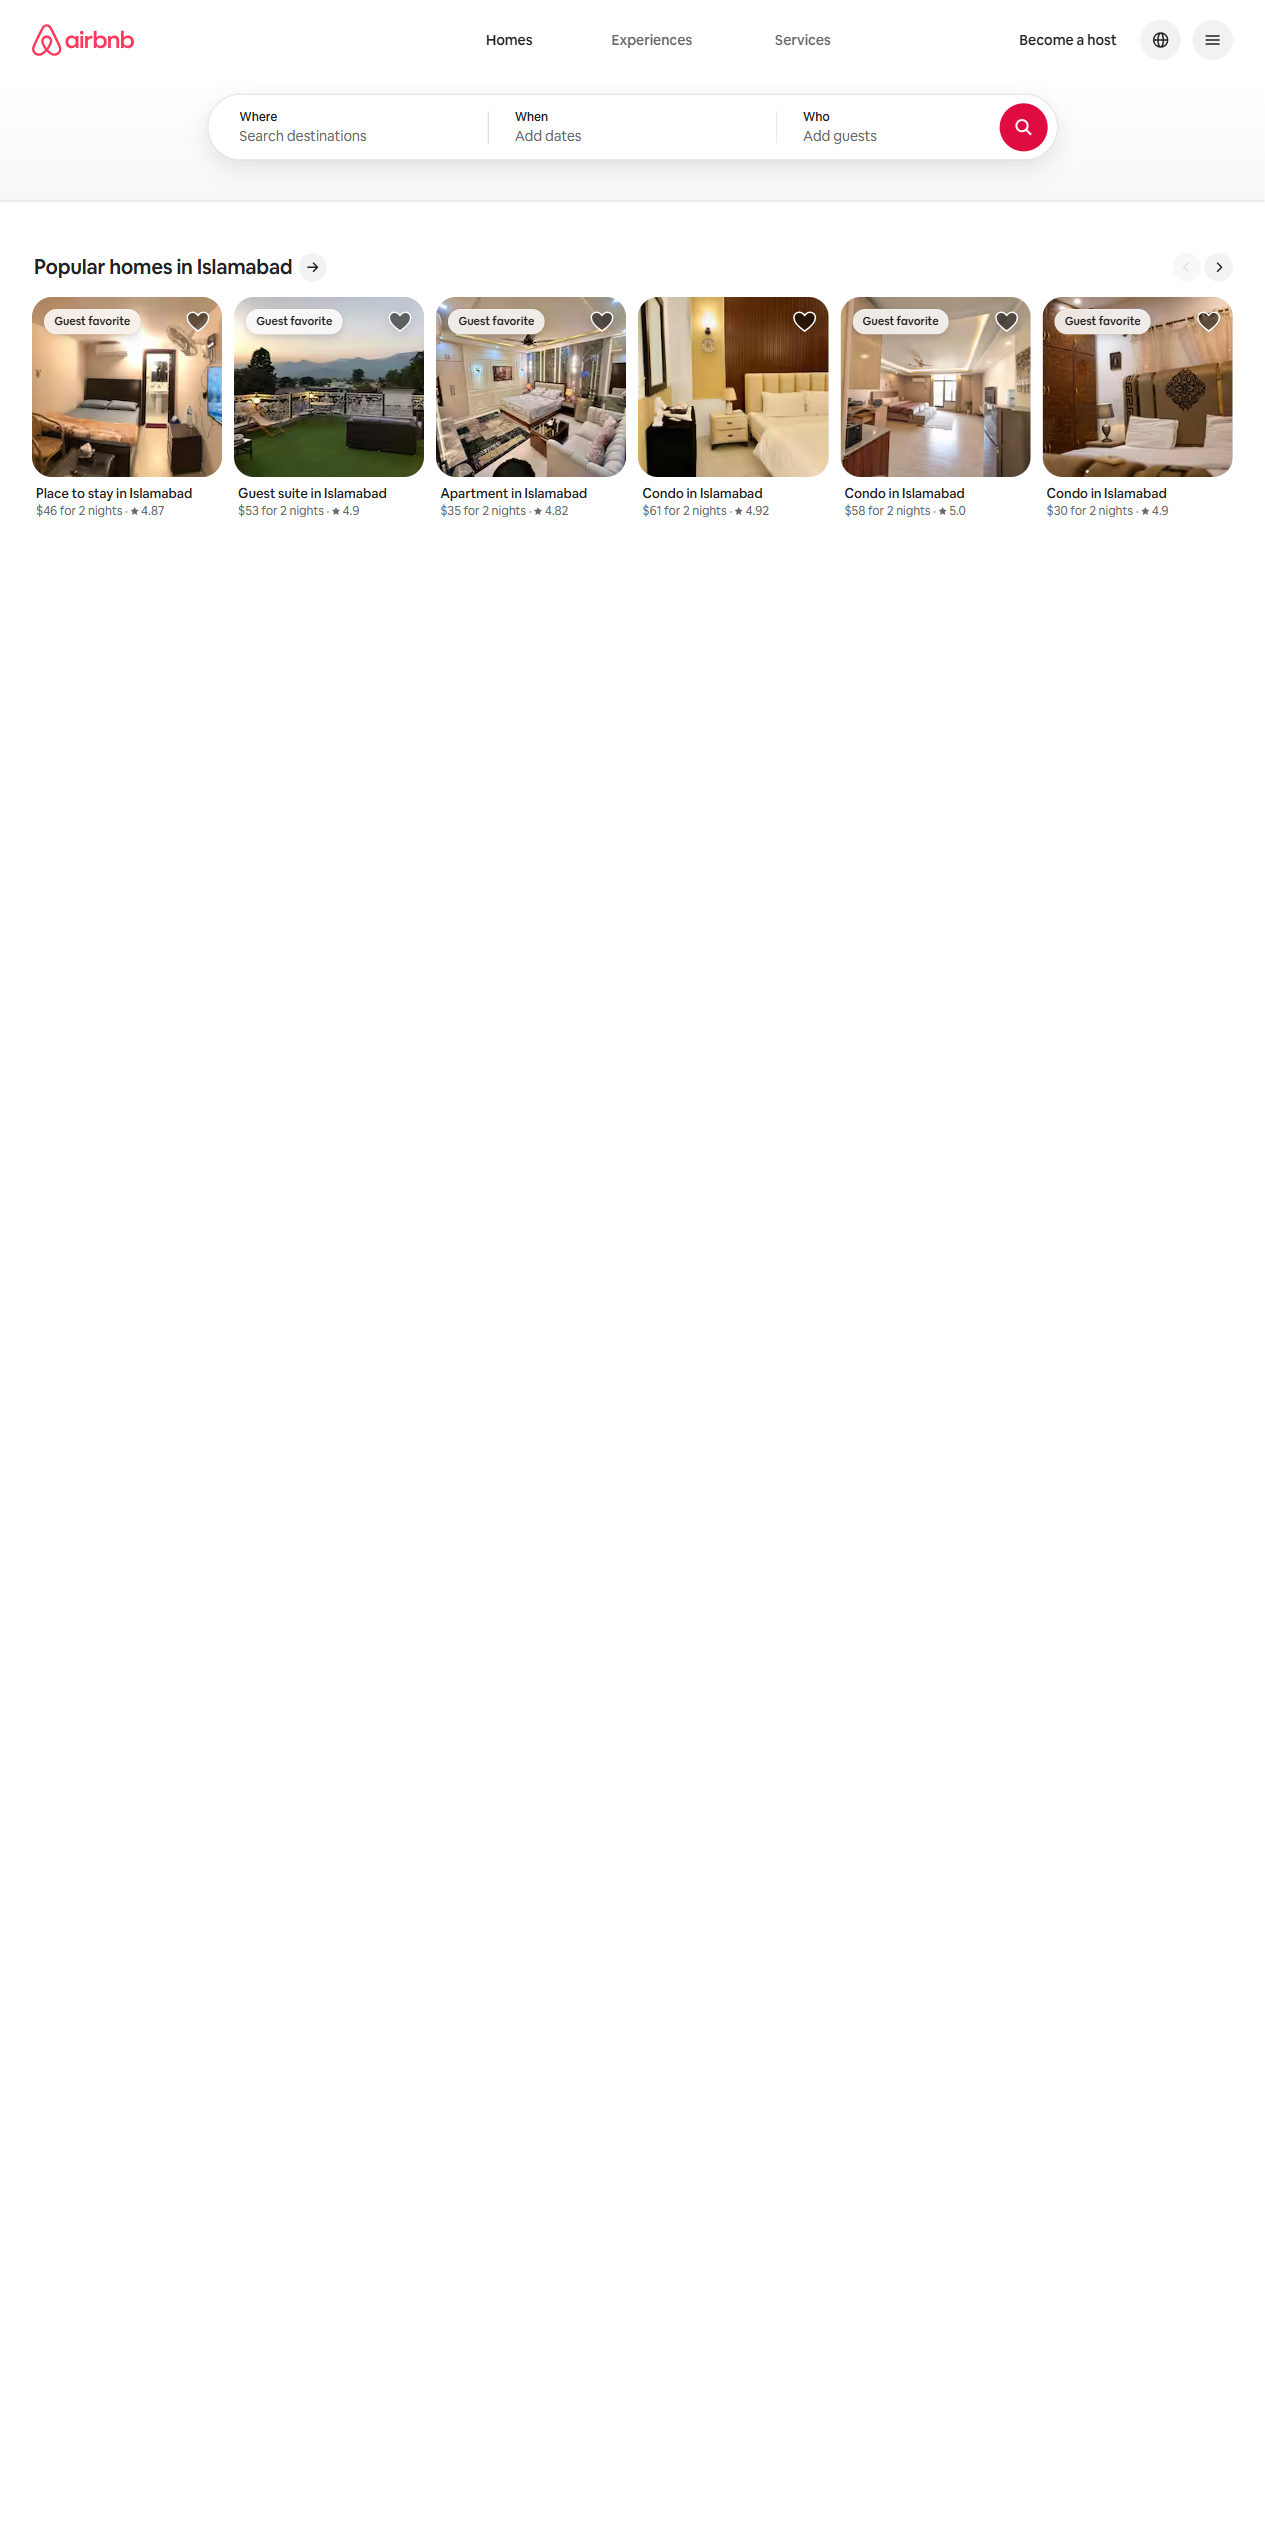
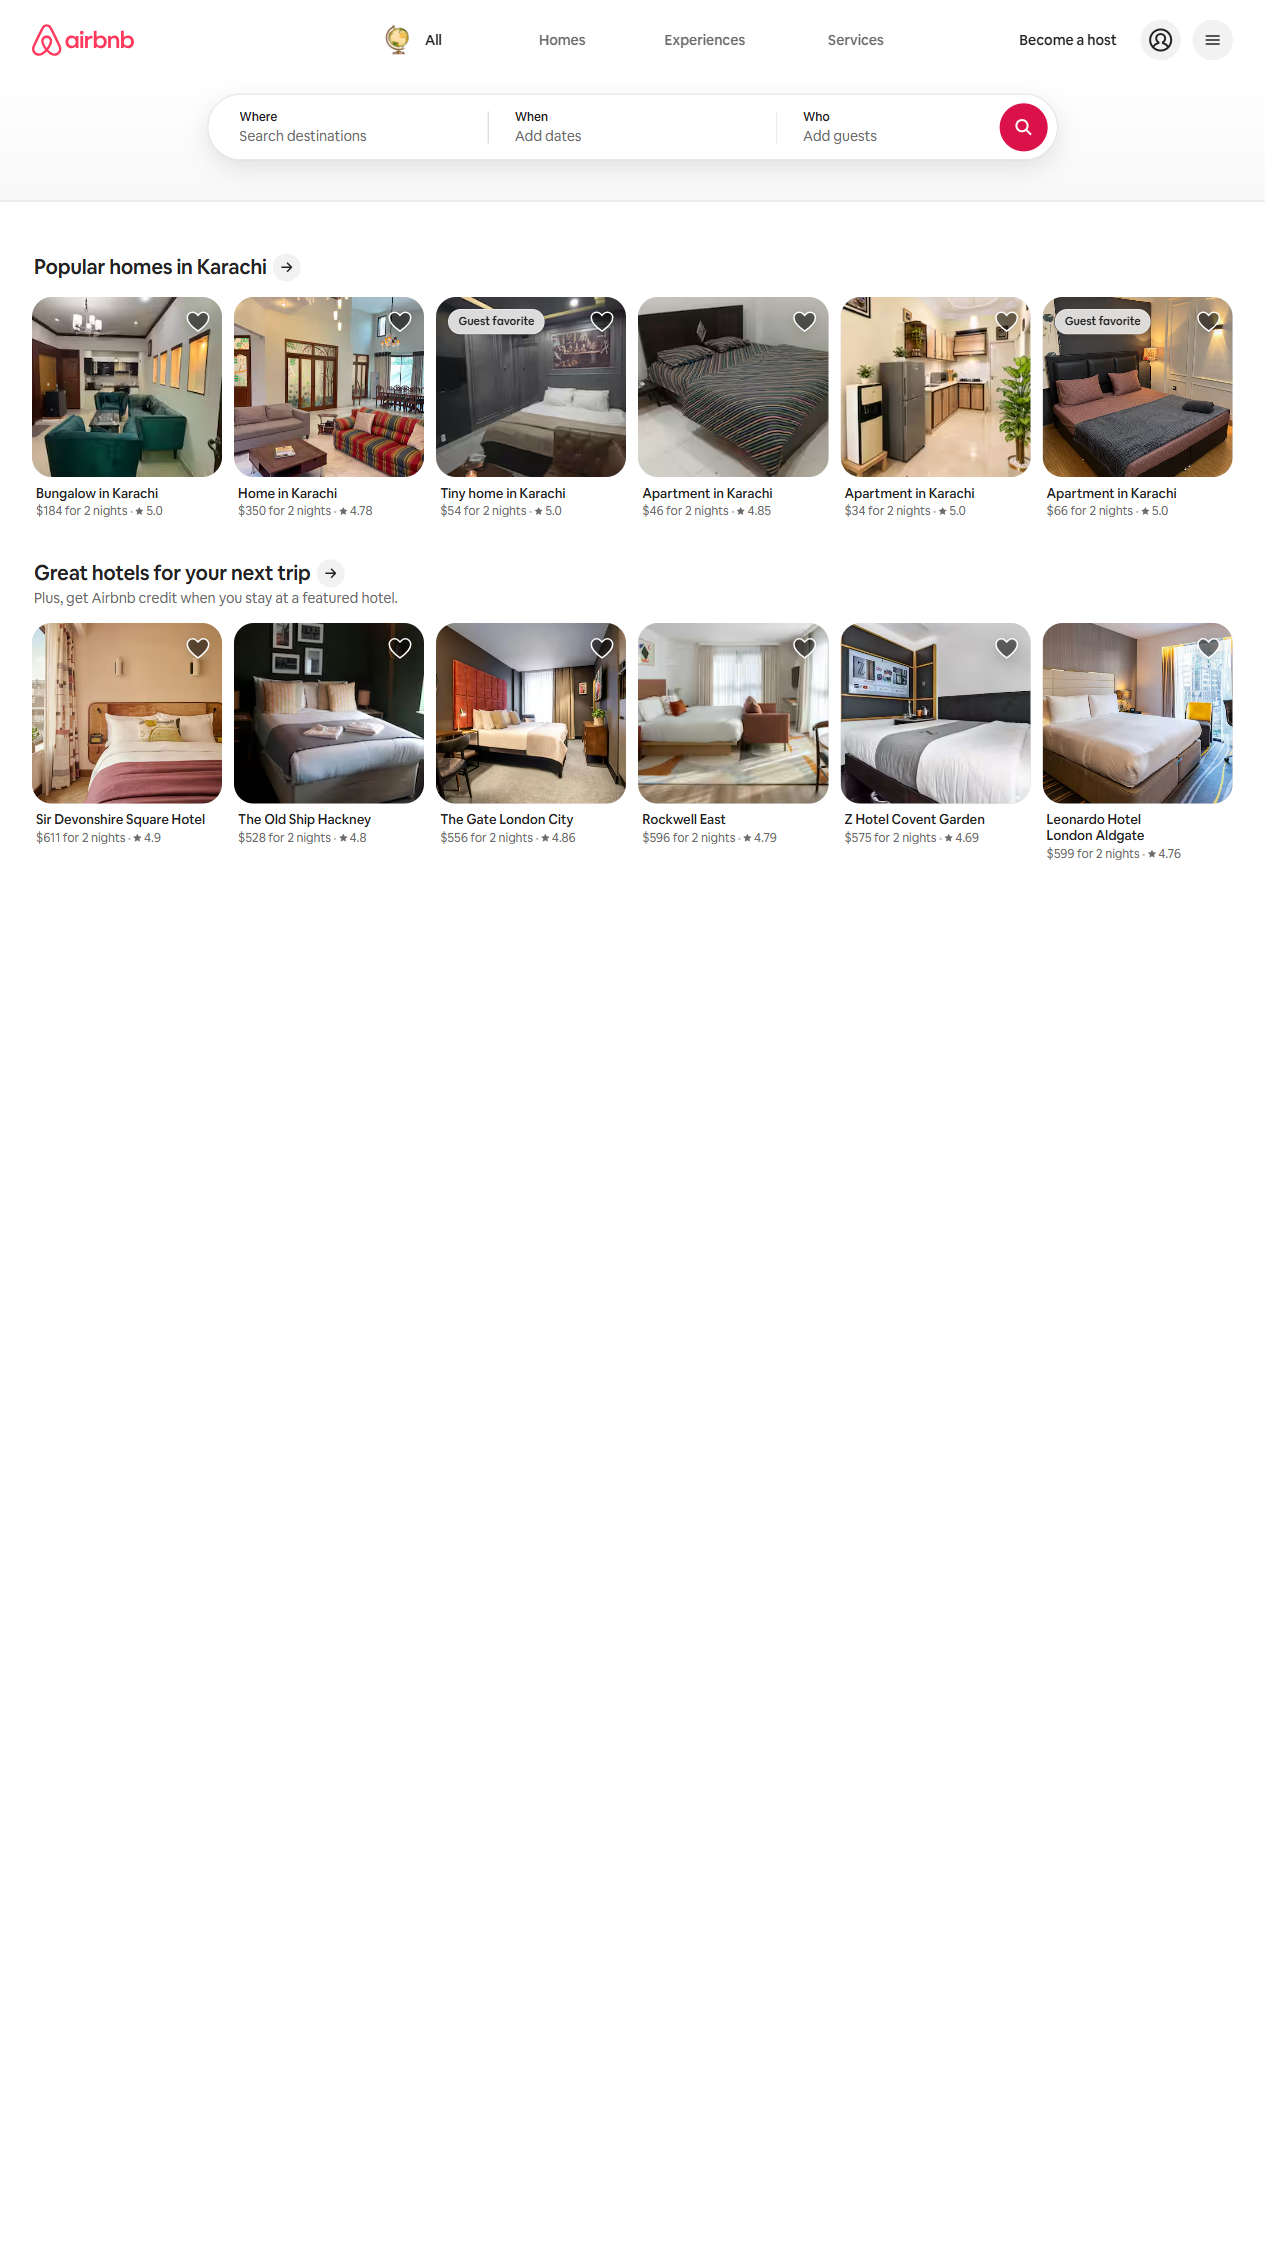
Finalize scraper: env-var config, headless toggle, cleanup

diff --git a/main.py b/main.py
@@ -4,6 +4,7 @@ import os, re, json, traceback, pandas as pd
 from collections import defaultdict
 from datetime import datetime
 from pymongo import MongoClient
+from datetime import datetime, timedelta
 
 # =====================================================
 # TEXT PARSERS
@@ -1119,10 +1120,12 @@ def open_airbnb(playwright):
 
     log("Launching browser")
 
+   
     browser = playwright.chromium.launch(
-        headless=True,
-        slow_mo=500
+      headless=False,
+      slow_mo=500
     )
+    
 
     context = browser.new_context()
 
@@ -1182,19 +1185,34 @@ def save_to_mongodb(results):
 # =====================================================
 
 def collect_user_inputs():
+    # Dynamic default dates — always valid, never stale
+    default_checkin = (datetime.now() + timedelta(days=7)).strftime("%Y-%m-%d")
+    default_checkout = (datetime.now() + timedelta(days=10)).strftime("%Y-%m-%d")
+
+    # Automated mode: DESTINATION env var is set (by the task definition)
+    if os.getenv("DESTINATION"):
+        return {
+            "destination": os.getenv("DESTINATION"),
+            "checkin": os.getenv("CHECKIN", default_checkin),
+            "checkout": os.getenv("CHECKOUT", default_checkout),
+            "max_pages": int(os.getenv("MAX_PAGES", "1")),
+            "adults": int(os.getenv("ADULTS", "1")),
+            "children": int(os.getenv("CHILDREN", "0")),
+            "infants": int(os.getenv("INFANTS", "0")),
+            "pets": int(os.getenv("PETS", "0")),
+        }
+
+    # Interactive mode: ask the user
     return {
-        "destination": os.getenv("DESTINATION", "New York"),
-        "checkin": os.getenv("CHECKIN", "2026-10-01"),
-        "checkout": os.getenv("CHECKOUT", "2026-10-05"),
-        "max_pages": int(os.getenv("MAX_PAGES", "1")),
-        "adults": int(os.getenv("ADULTS", "1")),
-        "children": int(os.getenv("CHILDREN", "0")),
-        "infants": int(os.getenv("INFANTS", "0")),
-        "pets": int(os.getenv("PETS", "0")),
-    }
-# =====================================================
-# URL Builder
-# =====================================================
+        "destination": input("Destination: "),
+        "checkin": input(f"Check-in (YYYY-MM-DD) [{default_checkin}]: ") or default_checkin,
+        "checkout": input(f"Check-out (YYYY-MM-DD) [{default_checkout}]: ") or default_checkout,
+        "max_pages": int(input("How many result pages to scrape? ") or "1"),
+        "adults": int(input("Adults: ") or "1"),
+        "children": int(input("Children: ") or "0"),
+        "infants": int(input("Infants: ") or "0"),
+        "pets": int(input("Pets: ") or "0"),
+    }# =====================================================
 
 def build_airbnb_url(user_data):
 
